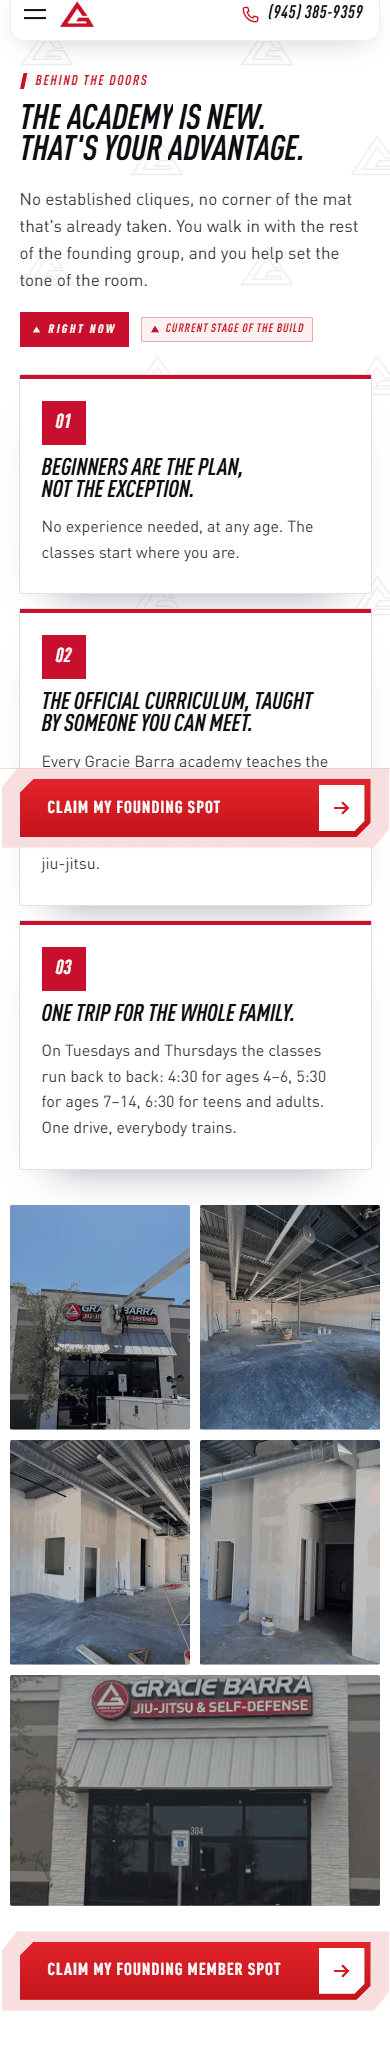
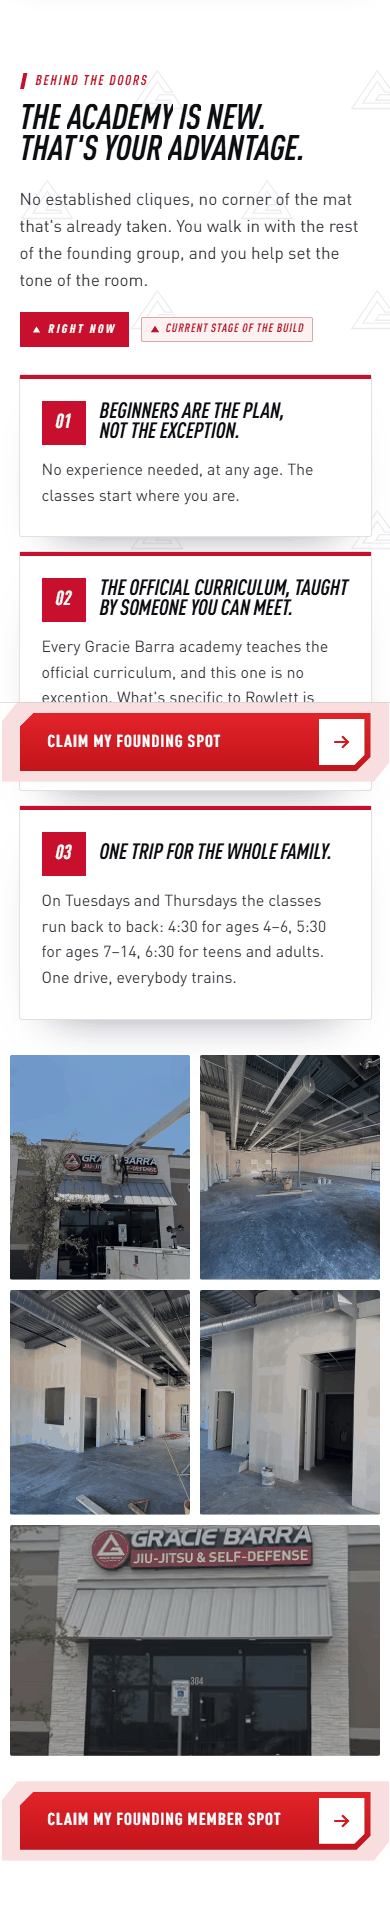
style(build): number and title on one row in the why-us cards

diff --git a/src/styles/sections.css b/src/styles/sections.css
@@ -1573,7 +1573,7 @@ html.motion .build__row[data-in] .build__cell {
 .why {
   position: relative;
   display: grid;
-  grid-template-rows: auto auto 1fr;
+  grid-template-rows: auto 1fr;
   align-content: start;
   gap: 14px;
   padding: 26px 22px 26px;
@@ -1601,9 +1601,16 @@ html.motion .build__row[data-in] .build__cell {
       0 34px 56px -32px rgb(var(--navy-rgb) / 0.6);
   }
 }
+/* o número e o título na mesma linha */
+.why__head {
+  display: flex;
+  align-items: center;
+  gap: 14px;
+}
 .why__n {
   display: grid;
   place-items: center;
+  flex: none;
   width: 44px;
   height: 44px;
   background: var(--red);
@@ -1614,7 +1621,7 @@ html.motion .build__row[data-in] .build__cell {
 }
 .why__t {
   font-style: italic;
-  font-size: clamp(1.5rem, 5.6vw, 1.875rem);
+  font-size: clamp(1.375rem, 5.2vw, 1.75rem);
   line-height: 0.98;
   color: var(--ink);
   text-wrap: balance;
@@ -1661,7 +1668,7 @@ html.motion .build__why .rise {
     padding: 32px clamp(24px, calc(var(--u) * 2.2), 40px) 34px;
   }
   .why__t {
-    font-size: clamp(1.75rem, calc(var(--u) * 2), 2.25rem);
+    font-size: clamp(1.5rem, calc(var(--u) * 1.7), 2rem);
   }
 }
 

diff --git a/src/components/sections/Build.tsx b/src/components/sections/Build.tsx
@@ -51,10 +51,12 @@ export function Build() {
         <ol ref={plates} className="build__why">
           {build.plates.map((p, i) => (
             <li key={p.title} className="why rise" style={{ ['--i' as string]: i }}>
-              <span className="why__n d" aria-hidden="true">
-                {String(i + 1).padStart(2, '0')}
-              </span>
-              <h3 className="why__t d">{p.title}</h3>
+              <div className="why__head">
+                <span className="why__n d" aria-hidden="true">
+                  {String(i + 1).padStart(2, '0')}
+                </span>
+                <h3 className="why__t d">{p.title}</h3>
+              </div>
               <p className="why__b">{p.body}</p>
             </li>
           ))}

diff --git a/public/memory/design-decisions.md b/public/memory/design-decisions.md
@@ -129,3 +129,4 @@ A tabela viva é a §20 do `prd-GBR-001.md` (23 itens). Resumo do que trava o mo
 - **Obra / why us em cards (Adryan):** as três razões deixam de ser texto solto e viram cards de mesma altura (branco, régua vermelha de 4px no topo, número num quadrado vermelho, título em Cn, texto em corpo, sombra marinho embaixo; sobem 4px no hover). Continuam acima da fila de fotos.
 - **Caderneta sem polaroid (Adryan):** a foto presa na primeira prancheta saiu (com a imagem `ready`, o recorte no `build-images.py` e o CSS). A seção fica sem foto, desvio consciente da regra "toda seção tem imagem" (PRD §0.8); a imagem da seção passa a ser o triângulo GB vermelho atrás das pranchetas.
 - **Como reservar:** removida a pendência "Welcome e-mail in GHL to confirm" do passo 3 (pedido do Adryan). O item §20 #10 continua na tabela do PRD.
+- **Cards do why us:** número e título na mesma linha (quadrado vermelho à esquerda, título ao lado), o card ficou mais baixo.
